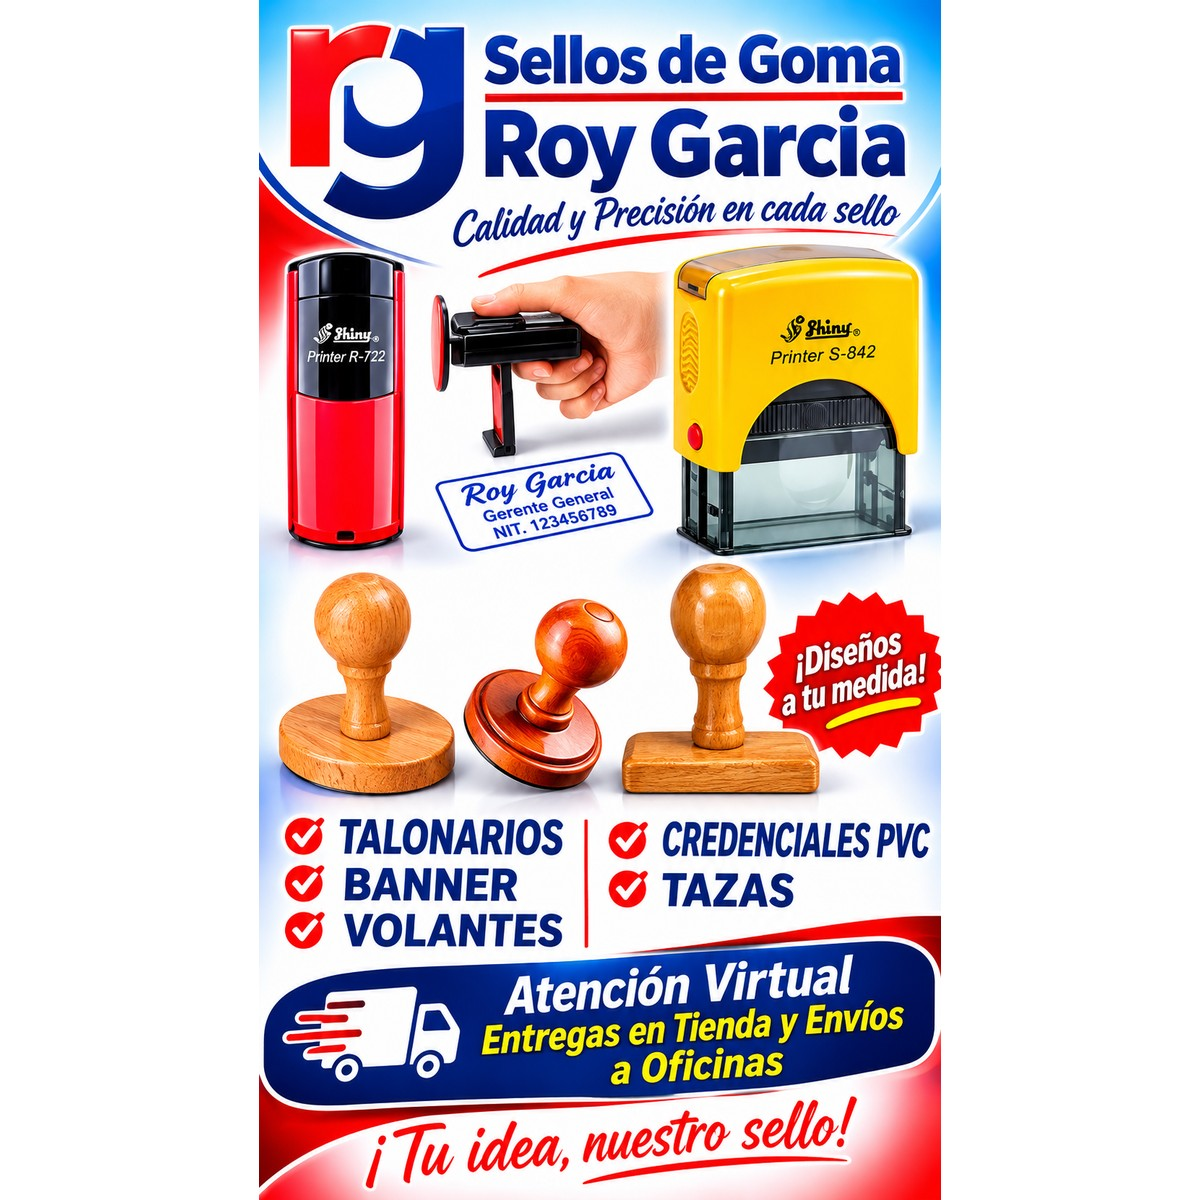
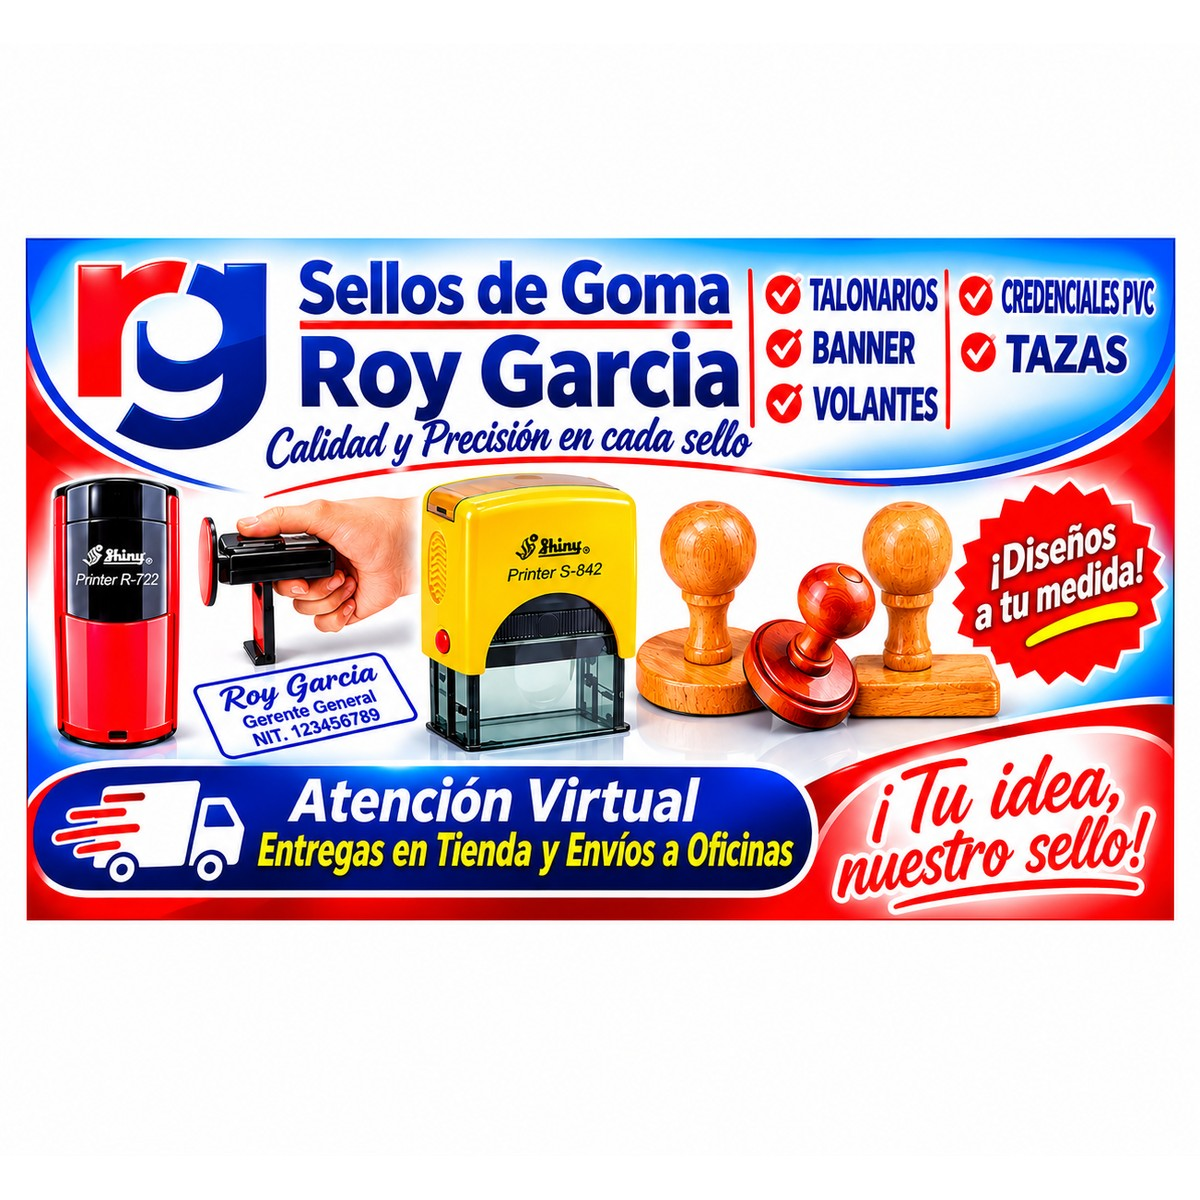
Actualizar tarjeta web

diff --git a/index.html b/index.html
@@ -8,19 +8,19 @@
     <!-- Open Graph / Etiquetas de Vista Previa para Redes Sociales -->
     <meta property="og:title" content="Sellos  RoyGarcia" />
     <meta property="og:description" content=" Servicios graficos Tarjetas personales, Talonarios, Volantes, Letreros, Trabajos de Imprenta en general." />
-    <meta property="og:image" content="https://especialistas-en-sellos-de-goma.pages.dev/imagenes/vista-previa-whatsapp.jpg" />
+    <meta property="og:image" content="https://sellos-roygarcia.pages.dev/imagenes/vista-previa-whatsapp.jpg" />
     <meta property="og:image:type" content="image/jpeg" />
     <meta property="og:image:width" content="1200" />
     <meta property="og:image:height" content="1200" />
     <meta property="og:image:alt" content="Logo de Sellos  RoyGarcia" />
-    <meta property="og:url" content="https://especialistas-en-sellos-de-goma.pages.dev" />
+    <meta property="og:url" content="https://sellos-roygarcia.pages.dev" />
     <meta property="og:type" content="website" />
     
     <!-- Twitter Card -->
     <meta name="twitter:card" content="summary_large_image">
     <meta name="twitter:title" content="Sellos  RoyGarcia">
     <meta name="twitter:description" content=" Servicios graficos Tarjetas personales, Talonarios, Volantes, Letreros, Trabajos de Imprenta en general.">
-    <meta name="twitter:image" content="https://especialistas-en-sellos-de-goma.pages.dev/imagenes/vista-previa-whatsapp.jpg">
+    <meta name="twitter:image" content="https://sellos-roygarcia.pages.dev/imagenes/vista-previa-whatsapp.jpg">
 
     <link rel="stylesheet" href="https://cdnjs.cloudflare.com/ajax/libs/font-awesome/6.4.0/css/all.min.css">
     <style>
@@ -109,7 +109,7 @@
 <body>
 
     <div class="tarjeta">
-        <img src="imagenes/Publicidad2.png" alt="Logo" class="logo">
+        <img src="imagenes/tarj.png" alt="Logo" class="logo">
         <h1>Especialistas en sellos de goma</h1>
         <p class="nombre-negocio">Sellos  RoyGarcia</p>
         <p> Servicios graficos Tarjetas personales, Talonarios, Volantes, Letreros, Trabajos de Imprenta en general.</p>
